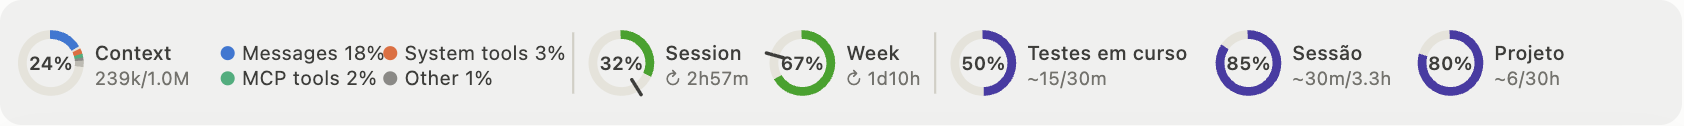
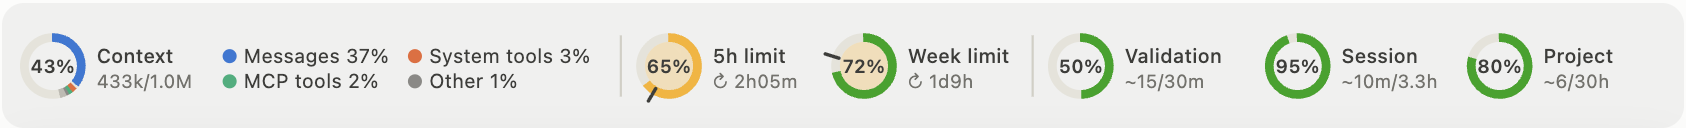
README: current screenshots (wide, narrow, new session)

Changed region(s): [[0.0, 0.2381, 0.9572, 0.7857], [0.0309, 0.2381, 0.0618, 0.2857]]

diff --git a/README.md b/README.md
@@ -190,6 +190,8 @@ means there is no estimate for that line yet (Validation shows only while you
 have tests pending). A new session in a folder carries over only the Project
 estimate; Validation and Session belong to the session that wrote them.
 
+![a new session: only the Project estimate carried over](context-bar/docs/gauges-no-estimates.png)
+
 
 ## Progress estimates (optional)
 
